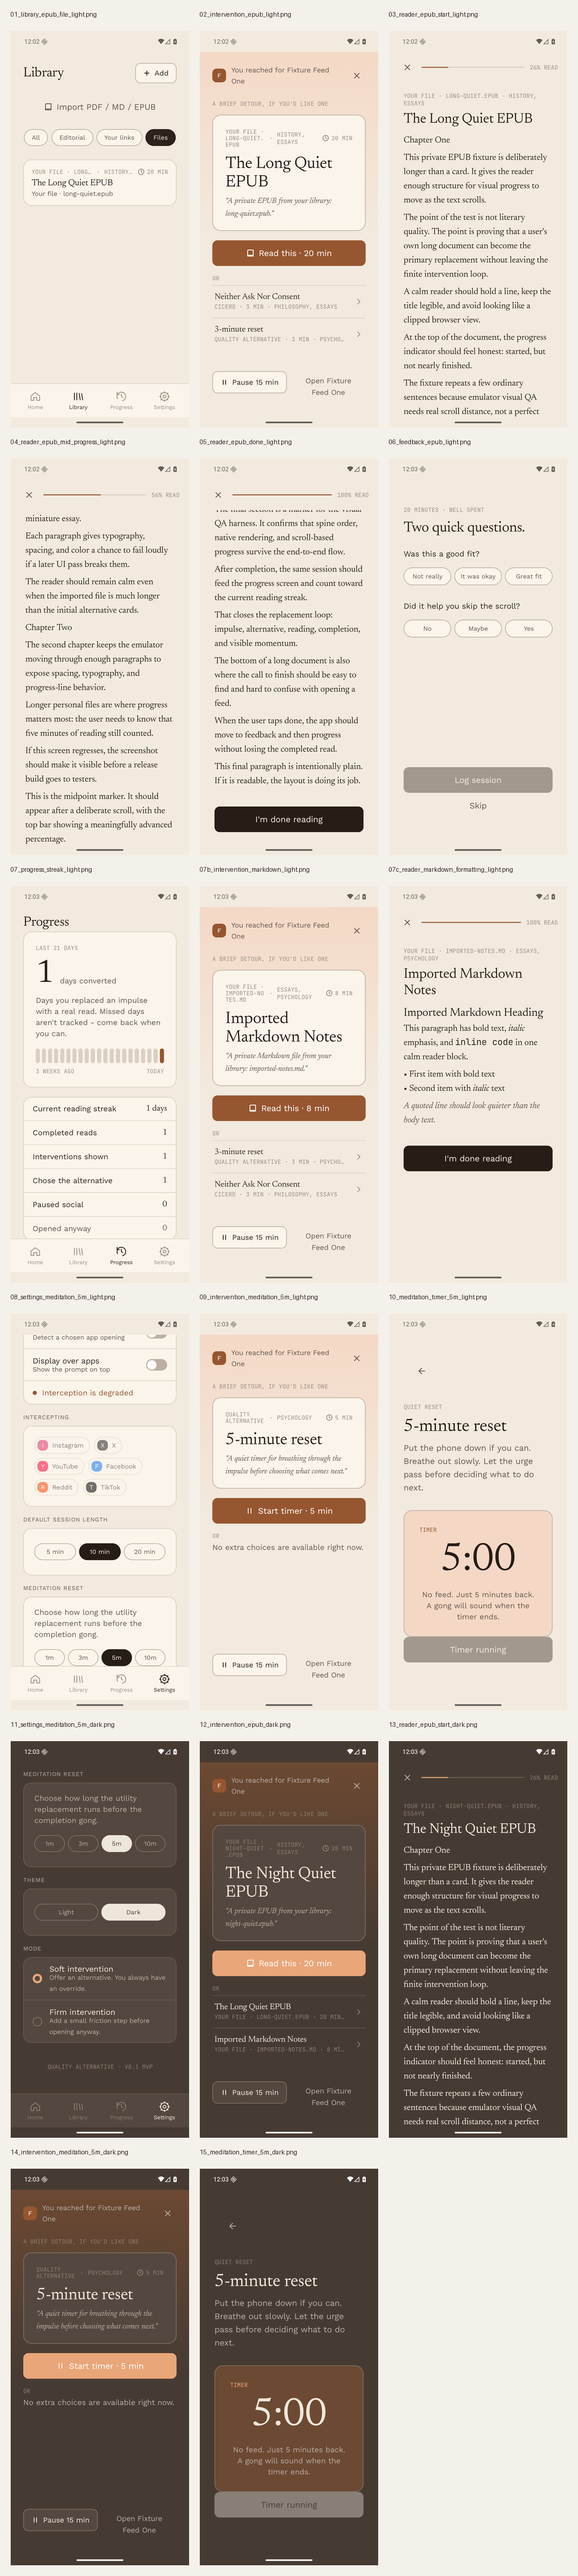
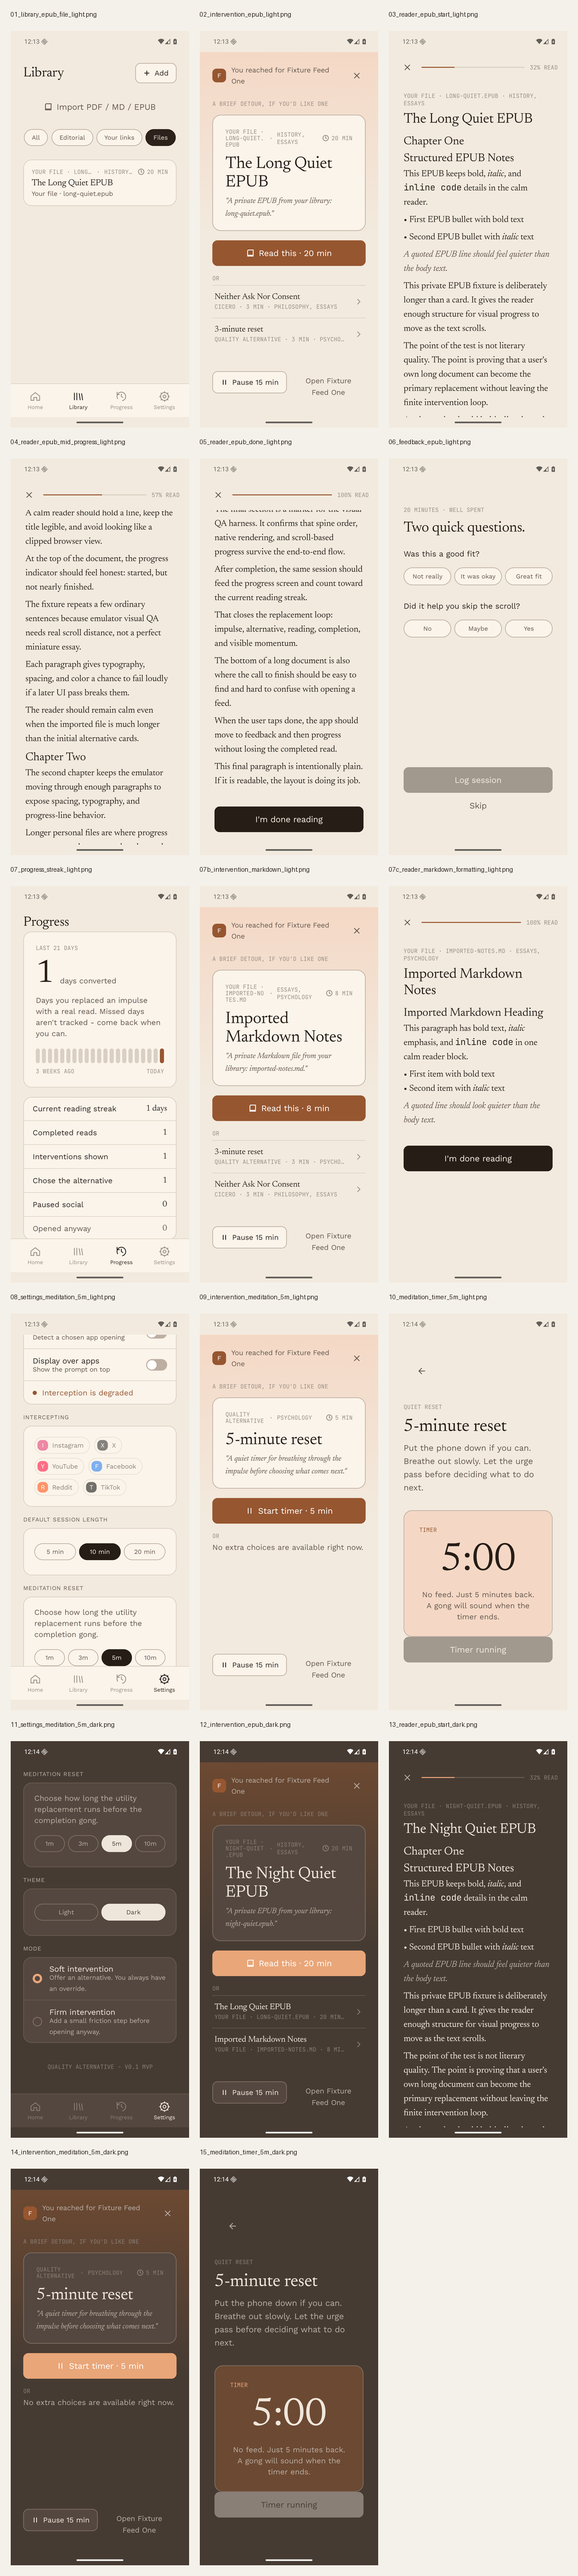
Preserve EPUB structure in reader

Changed region(s): [[0.0309, 0.1872, 0.2778, 0.3433], [0.679, 0.7178, 0.9568, 0.8426], [0.679, 0.0312, 0.9568, 0.156]]

diff --git a/app/src/main/java/com/qualityalternative/app/data/EpubTextExtractor.kt b/app/src/main/java/com/qualityalternative/app/data/EpubTextExtractor.kt
@@ -119,13 +119,99 @@ object EpubTextExtractor {
             .replace(Regex("""<script\b[\s\S]*?</script>""", RegexOption.IGNORE_CASE), " ")
             .replace(Regex("""<style\b[\s\S]*?</style>""", RegexOption.IGNORE_CASE), " ")
             .replace(Regex("""<svg\b[\s\S]*?</svg>""", RegexOption.IGNORE_CASE), " ")
-            .replace(Regex("""<(br|hr)\b[^>]*>""", RegexOption.IGNORE_CASE), "\n")
-            .replace(Regex("""</(p|div|section|article|blockquote|h[1-6]|li|tr)>""", RegexOption.IGNORE_CASE), "\n\n")
-            .replace(Regex("""<li\b[^>]*>""", RegexOption.IGNORE_CASE), "\n- ")
+            .replace(Regex("""<br\b[^>]*\/?>""", RegexOption.IGNORE_CASE), "\n")
+            .replace(Regex("""<hr\b[^>]*\/?>""", RegexOption.IGNORE_CASE), "\n\n---\n\n")
+            .replaceInlineStyleTags("strong|b", "**")
+            .replaceInlineStyleTags("em|i|cite", "_")
+            .replaceInlineStyleTags("code|kbd|samp", "`")
+            .replaceHeadings()
+            .replaceBlockquotes()
+            .replaceListItems()
+            .replace(Regex("""</(p|div|section|article|aside|header|footer|main|figure|figcaption|ul|ol|dl|table|tbody|thead|tr)>""", RegexOption.IGNORE_CASE), "\n\n")
             .replace(Regex("""<[^>]+>"""), " ")
             .decodeXmlEntities()
-            .lines()
-            .map { line -> line.replace(Regex("""\s+"""), " ").trim() }
+            .normalizeReaderMarkdown()
+    }
+
+    private fun String.replaceHeadings(): String {
+        return Regex("""<h([1-6])\b[^>]*>([\s\S]*?)</h\1>""", RegexOption.IGNORE_CASE)
+            .replace(this) { match ->
+                val level = match.groupValues[1].toIntOrNull()?.coerceIn(1, 6) ?: 1
+                val text = match.groupValues[2].stripTagsToInlineText()
+                "\n\n${"#".repeat(level)} $text\n\n"
+            }
+    }
+
+    private fun String.replaceBlockquotes(): String {
+        return Regex("""<blockquote\b[^>]*>([\s\S]*?)</blockquote>""", RegexOption.IGNORE_CASE)
+            .replace(this) { match ->
+                val quote = match.groupValues[1]
+                    .replace(Regex("""</(p|div|li)>""", RegexOption.IGNORE_CASE), "\n")
+                    .stripTagsToInlineText(preserveLineBreaks = true)
+                    .lines()
+                    .map { line -> line.trim() }
+                    .filter(String::isNotBlank)
+                    .joinToString("\n") { line -> "> $line" }
+                "\n\n$quote\n\n"
+            }
+    }
+
+    private fun String.replaceListItems(): String {
+        return Regex("""<li\b[^>]*>([\s\S]*?)</li>""", RegexOption.IGNORE_CASE)
+            .replace(this) { match ->
+                val text = match.groupValues[1].stripTagsToInlineText()
+                "\n- $text"
+            }
+    }
+
+    private fun String.replaceInlineStyleTags(tagNames: String, marker: String): String {
+        val pattern = Regex("""<($tagNames)\b[^>]*>([\s\S]*?)</\1>""", RegexOption.IGNORE_CASE)
+        var rendered = this
+        while (true) {
+            val replaced = pattern.replace(rendered) { match ->
+                val text = match.groupValues[2].stripTagsToInlineText()
+                if (text.isBlank()) "" else "$marker$text$marker"
+            }
+            if (replaced == rendered) {
+                return rendered
+            }
+            rendered = replaced
+        }
+    }
+
+    private fun String.stripTagsToInlineText(preserveLineBreaks: Boolean = false): String {
+        val withoutBlocks = if (preserveLineBreaks) {
+            replace(Regex("""<(br|/p|/div|/li)\b[^>]*>""", RegexOption.IGNORE_CASE), "\n")
+        } else {
+            this
+        }
+        return withoutBlocks
+            .replace(Regex("""<[^>]+>"""), " ")
+            .decodeXmlEntities()
+            .let { text ->
+                if (preserveLineBreaks) {
+                    text.lines()
+                        .joinToString("\n") { line -> line.replace(Regex("""[ \t\r\f]+"""), " ").trim() }
+                } else {
+                    text.replace(Regex("""\s+"""), " ").trim()
+                }
+            }
+            .trim()
+    }
+
+    private fun String.normalizeReaderMarkdown(): String {
+        return lines()
+            .map { line -> line.replace(Regex("""[ \t\r\f]+"""), " ").trim() }
+            .joinToString("\n")
+            .replace(Regex("""\n{3,}"""), "\n\n")
+            .split(Regex("""\n\s*\n"""))
+            .map { block ->
+                block.lines()
+                    .map(String::trim)
+                    .filter(String::isNotBlank)
+                    .joinToString("\n")
+                    .trim()
+            }
             .filter(String::isNotBlank)
             .joinToString(separator = "\n\n")
     }
@@ -137,8 +223,18 @@ object EpubTextExtractor {
             .replace("&gt;", ">")
             .replace("&quot;", "\"")
             .replace("&apos;", "'")
+            .replace("&rsquo;", "'")
+            .replace("&lsquo;", "'")
+            .replace("&rdquo;", "\"")
+            .replace("&ldquo;", "\"")
+            .replace("&mdash;", "-")
+            .replace("&ndash;", "-")
+            .replace("&hellip;", "...")
             .replace(Regex("""&#(\d+);""")) { match ->
                 match.groupValues[1].toIntOrNull()?.toChar()?.toString() ?: match.value
+            }
+            .replace(Regex("""&#x([0-9a-fA-F]+);""")) { match ->
+                match.groupValues[1].toIntOrNull(radix = 16)?.toChar()?.toString() ?: match.value
             }
     }
 }

diff --git a/app/src/test/java/com/qualityalternative/app/data/EpubTextExtractorTest.kt b/app/src/test/java/com/qualityalternative/app/data/EpubTextExtractorTest.kt
@@ -4,6 +4,7 @@ import java.io.ByteArrayInputStream
 import java.io.ByteArrayOutputStream
 import java.util.zip.ZipEntry
 import java.util.zip.ZipOutputStream
+import org.junit.Assert.assertEquals
 import org.junit.Assert.assertTrue
 import org.junit.Test
 
@@ -41,11 +42,60 @@ class EpubTextExtractorTest {
 
         val text = EpubTextExtractor.extract(ByteArrayInputStream(epub))
 
-        assertTrue(text.contains("First"))
+        assertTrue(text.contains("# First"))
         assertTrue(text.contains("Begin & notice."))
         assertTrue(text.contains("Second chapter."))
         assertTrue(text.indexOf("Begin & notice.") < text.indexOf("Second chapter."))
         assertTrue(text.contains("- One breath"))
+        assertTrue(text.contains("- One page"))
+    }
+
+    @Test
+    fun extractPreservesEpubStructureAsReaderMarkdown() {
+        val epub = epubBytes(
+            "META-INF/container.xml" to """
+                <?xml version="1.0"?>
+                <container>
+                  <rootfiles>
+                    <rootfile full-path="book/package.opf" media-type="application/oebps-package+xml"/>
+                  </rootfiles>
+                </container>
+            """.trimIndent(),
+            "book/package.opf" to """
+                <package>
+                  <manifest>
+                    <item id="chapter" href="chapter.xhtml" media-type="application/xhtml+xml"/>
+                  </manifest>
+                  <spine>
+                    <itemref idref="chapter"/>
+                  </spine>
+                </package>
+            """.trimIndent(),
+            "book/chapter.xhtml" to """
+                <html><body>
+                  <h1>A Better Chapter</h1>
+                  <p>This keeps <strong>bold</strong>, <em>italic</em>, and <code>inline code</code> markers.</p>
+                  <blockquote><p>Attention returns when the paragraph slows down.</p></blockquote>
+                  <ol><li>First page</li><li>Second page &mdash; not a feed</li></ol>
+                </body></html>
+            """.trimIndent(),
+        )
+
+        val text = EpubTextExtractor.extract(ByteArrayInputStream(epub))
+
+        assertEquals(
+            """
+            # A Better Chapter
+
+            This keeps **bold**, _italic_, and `inline code` markers.
+
+            > Attention returns when the paragraph slows down.
+
+            - First page
+            - Second page - not a feed
+            """.trimIndent(),
+            text,
+        )
     }
 
     @Test(expected = IllegalArgumentException::class)

diff --git a/app/src/androidTest/java/com/qualityalternative/app/VisualQaScreenshotTest.kt b/app/src/androidTest/java/com/qualityalternative/app/VisualQaScreenshotTest.kt
@@ -211,6 +211,9 @@ class VisualQaScreenshotTest {
         composeRule.onNodeWithText("Read this", substring = true).performClick()
         composeRule.waitUntil(timeoutMillis = 10_000) { hasTag("reader-screen") }
         composeRule.onNodeWithText("The Long Quiet EPUB").assertIsDisplayed()
+        composeRule.onNodeWithText("Structured EPUB Notes").assertIsDisplayed()
+        composeRule.onNodeWithText("First EPUB bullet with bold text", substring = true).assertIsDisplayed()
+        assertTrue("Raw EPUB bold markers should not be visible", !hasNodeContaining("**bold**"))
         captureSprint10("03_reader_epub_start_light")
 
         composeRule.onNodeWithTag("reader-list")
@@ -682,6 +685,13 @@ class VisualQaScreenshotTest {
             "OPS/chapter1.xhtml" to """
                 <html><body>
                   <h1>Chapter One</h1>
+                  <h2>Structured EPUB Notes</h2>
+                  <p>This EPUB keeps <strong>bold</strong>, <em>italic</em>, and <code>inline code</code> details in the calm reader.</p>
+                  <ul>
+                    <li>First EPUB bullet with <strong>bold</strong> text</li>
+                    <li>Second EPUB bullet with <em>italic</em> text</li>
+                  </ul>
+                  <blockquote><p>A quoted EPUB line should feel quieter than the body text.</p></blockquote>
                   <p>This private EPUB fixture is deliberately longer than a card. It gives the reader enough structure for visual progress to move as the text scrolls.</p>
                   <p>The point of the test is not literary quality. The point is proving that a user's own long document can become the primary replacement without leaving the finite intervention loop.</p>
                   <p>A calm reader should hold a line, keep the title legible, and avoid looking like a clipped browser view.</p>

diff --git a/app/src/main/java/com/qualityalternative/app/ui/QualityAlternativeApp.kt b/app/src/main/java/com/qualityalternative/app/ui/QualityAlternativeApp.kt
@@ -1132,7 +1132,7 @@ private fun AddDocumentScreen(
         ) {
             DisplayText("Add a private\nreading file.", fontSize = 30.sp, lineHeight = 33.sp)
             BodyText(
-                text = "PDF and EPUB open through Android's document viewer. Markdown opens in the calm in-app reader. The file stays on this device.",
+                text = "PDF opens through Android's document viewer. Markdown and EPUB open in the calm in-app reader. The file stays on this device.",
                 color = QualityAlternativeThemeTokens.colors.mutedText,
                 modifier = Modifier.padding(top = 6.dp, bottom = 16.dp),
             )
